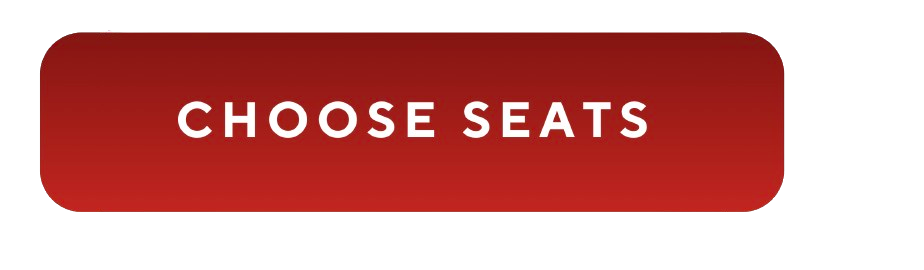
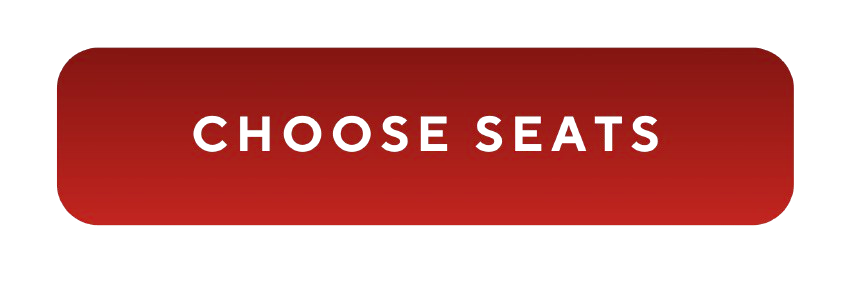
finished some logics, going back to fix certain things.

Changed region(s): [[0.0302, 0.1185, 0.935, 0.8], [0.181, 0.3556, 0.7842, 0.5333]]

diff --git a/Newmain.py b/Newmain.py
@@ -602,6 +602,7 @@ def main(page: Page) -> None:
                                             left=525)
     test = ft.Text(value="Min 1. Max 72", color=ft.Colors.BLACK)
 
+    ChooseSeats = ft.Container(content=ft.Image(src="ChooseSeats.png", height=70),top=450, left=515)
 
     async def TotalMoney(e):
         try:
@@ -611,7 +612,7 @@ def main(page: Page) -> None:
                 TotalPrice = TicketPrice*UserInput
                 print(TotalPrice)
                 TotalBox.content.value = f"Total Price: {TotalPrice}$RD"
-
+                sub2nd.controls.append(ChooseSeats)
                 page.update()
             else:
                 TotalBox.content.value = "Number of seats range from 1 to 72"
